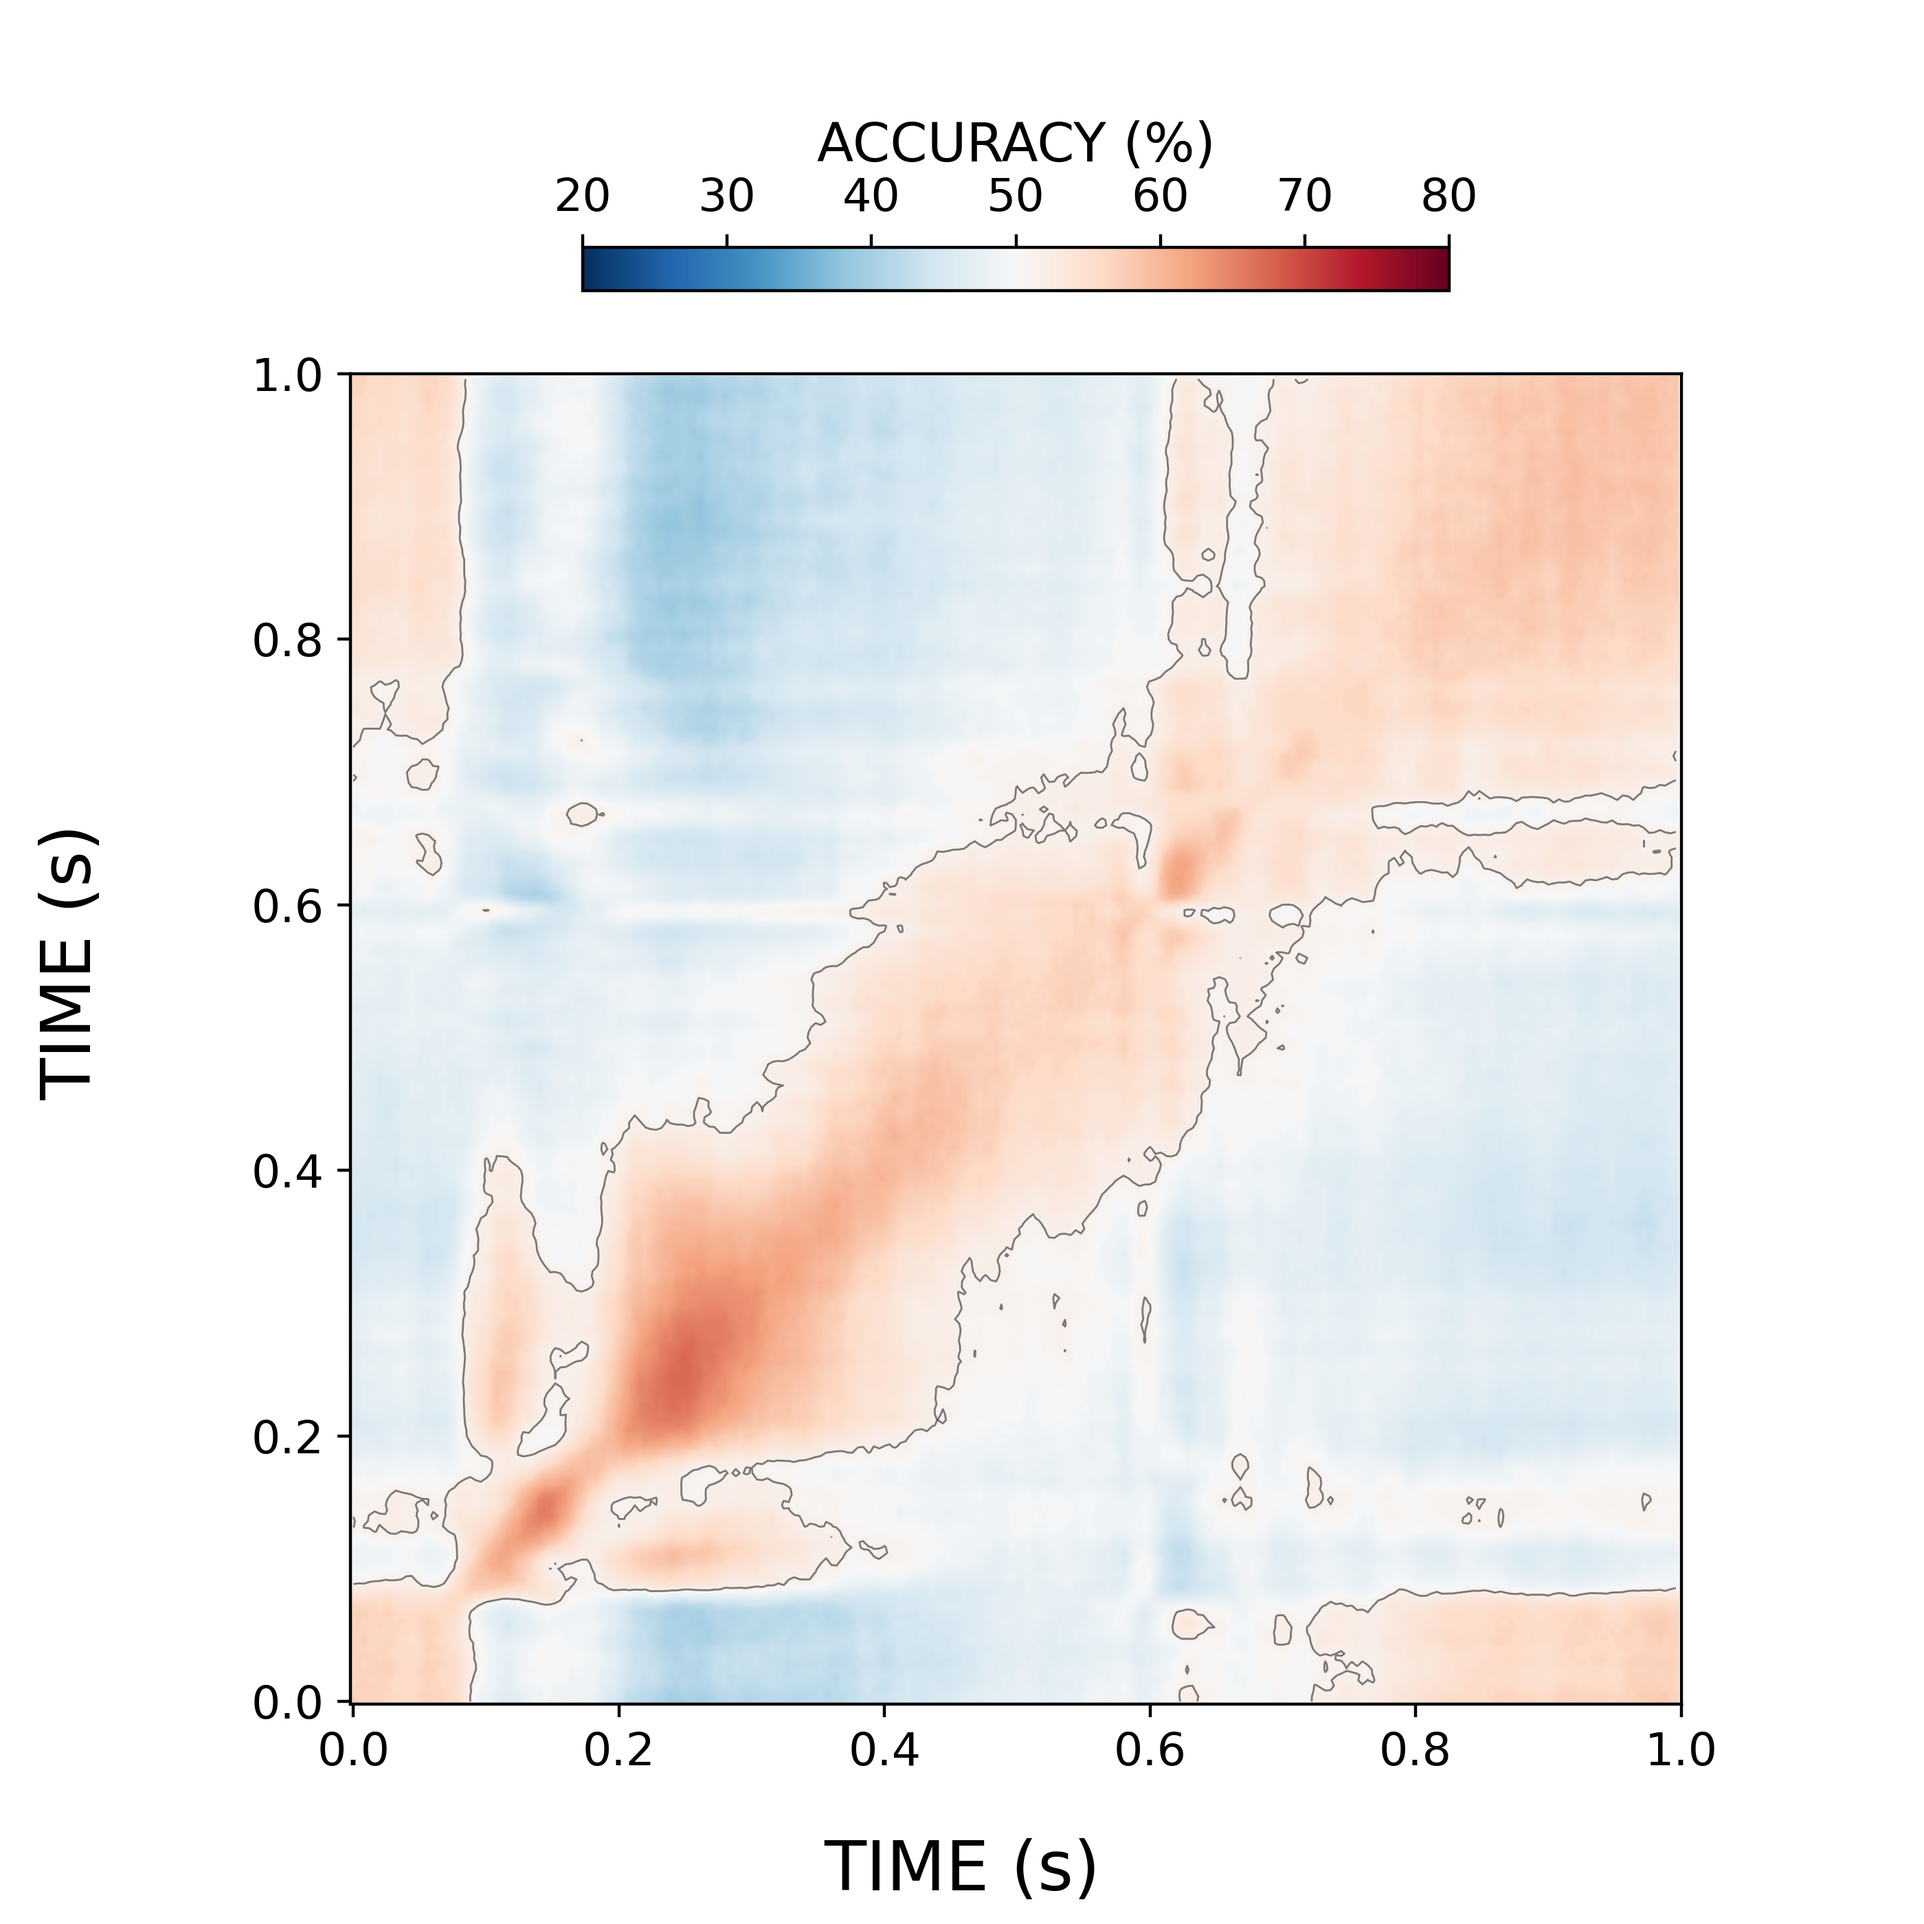
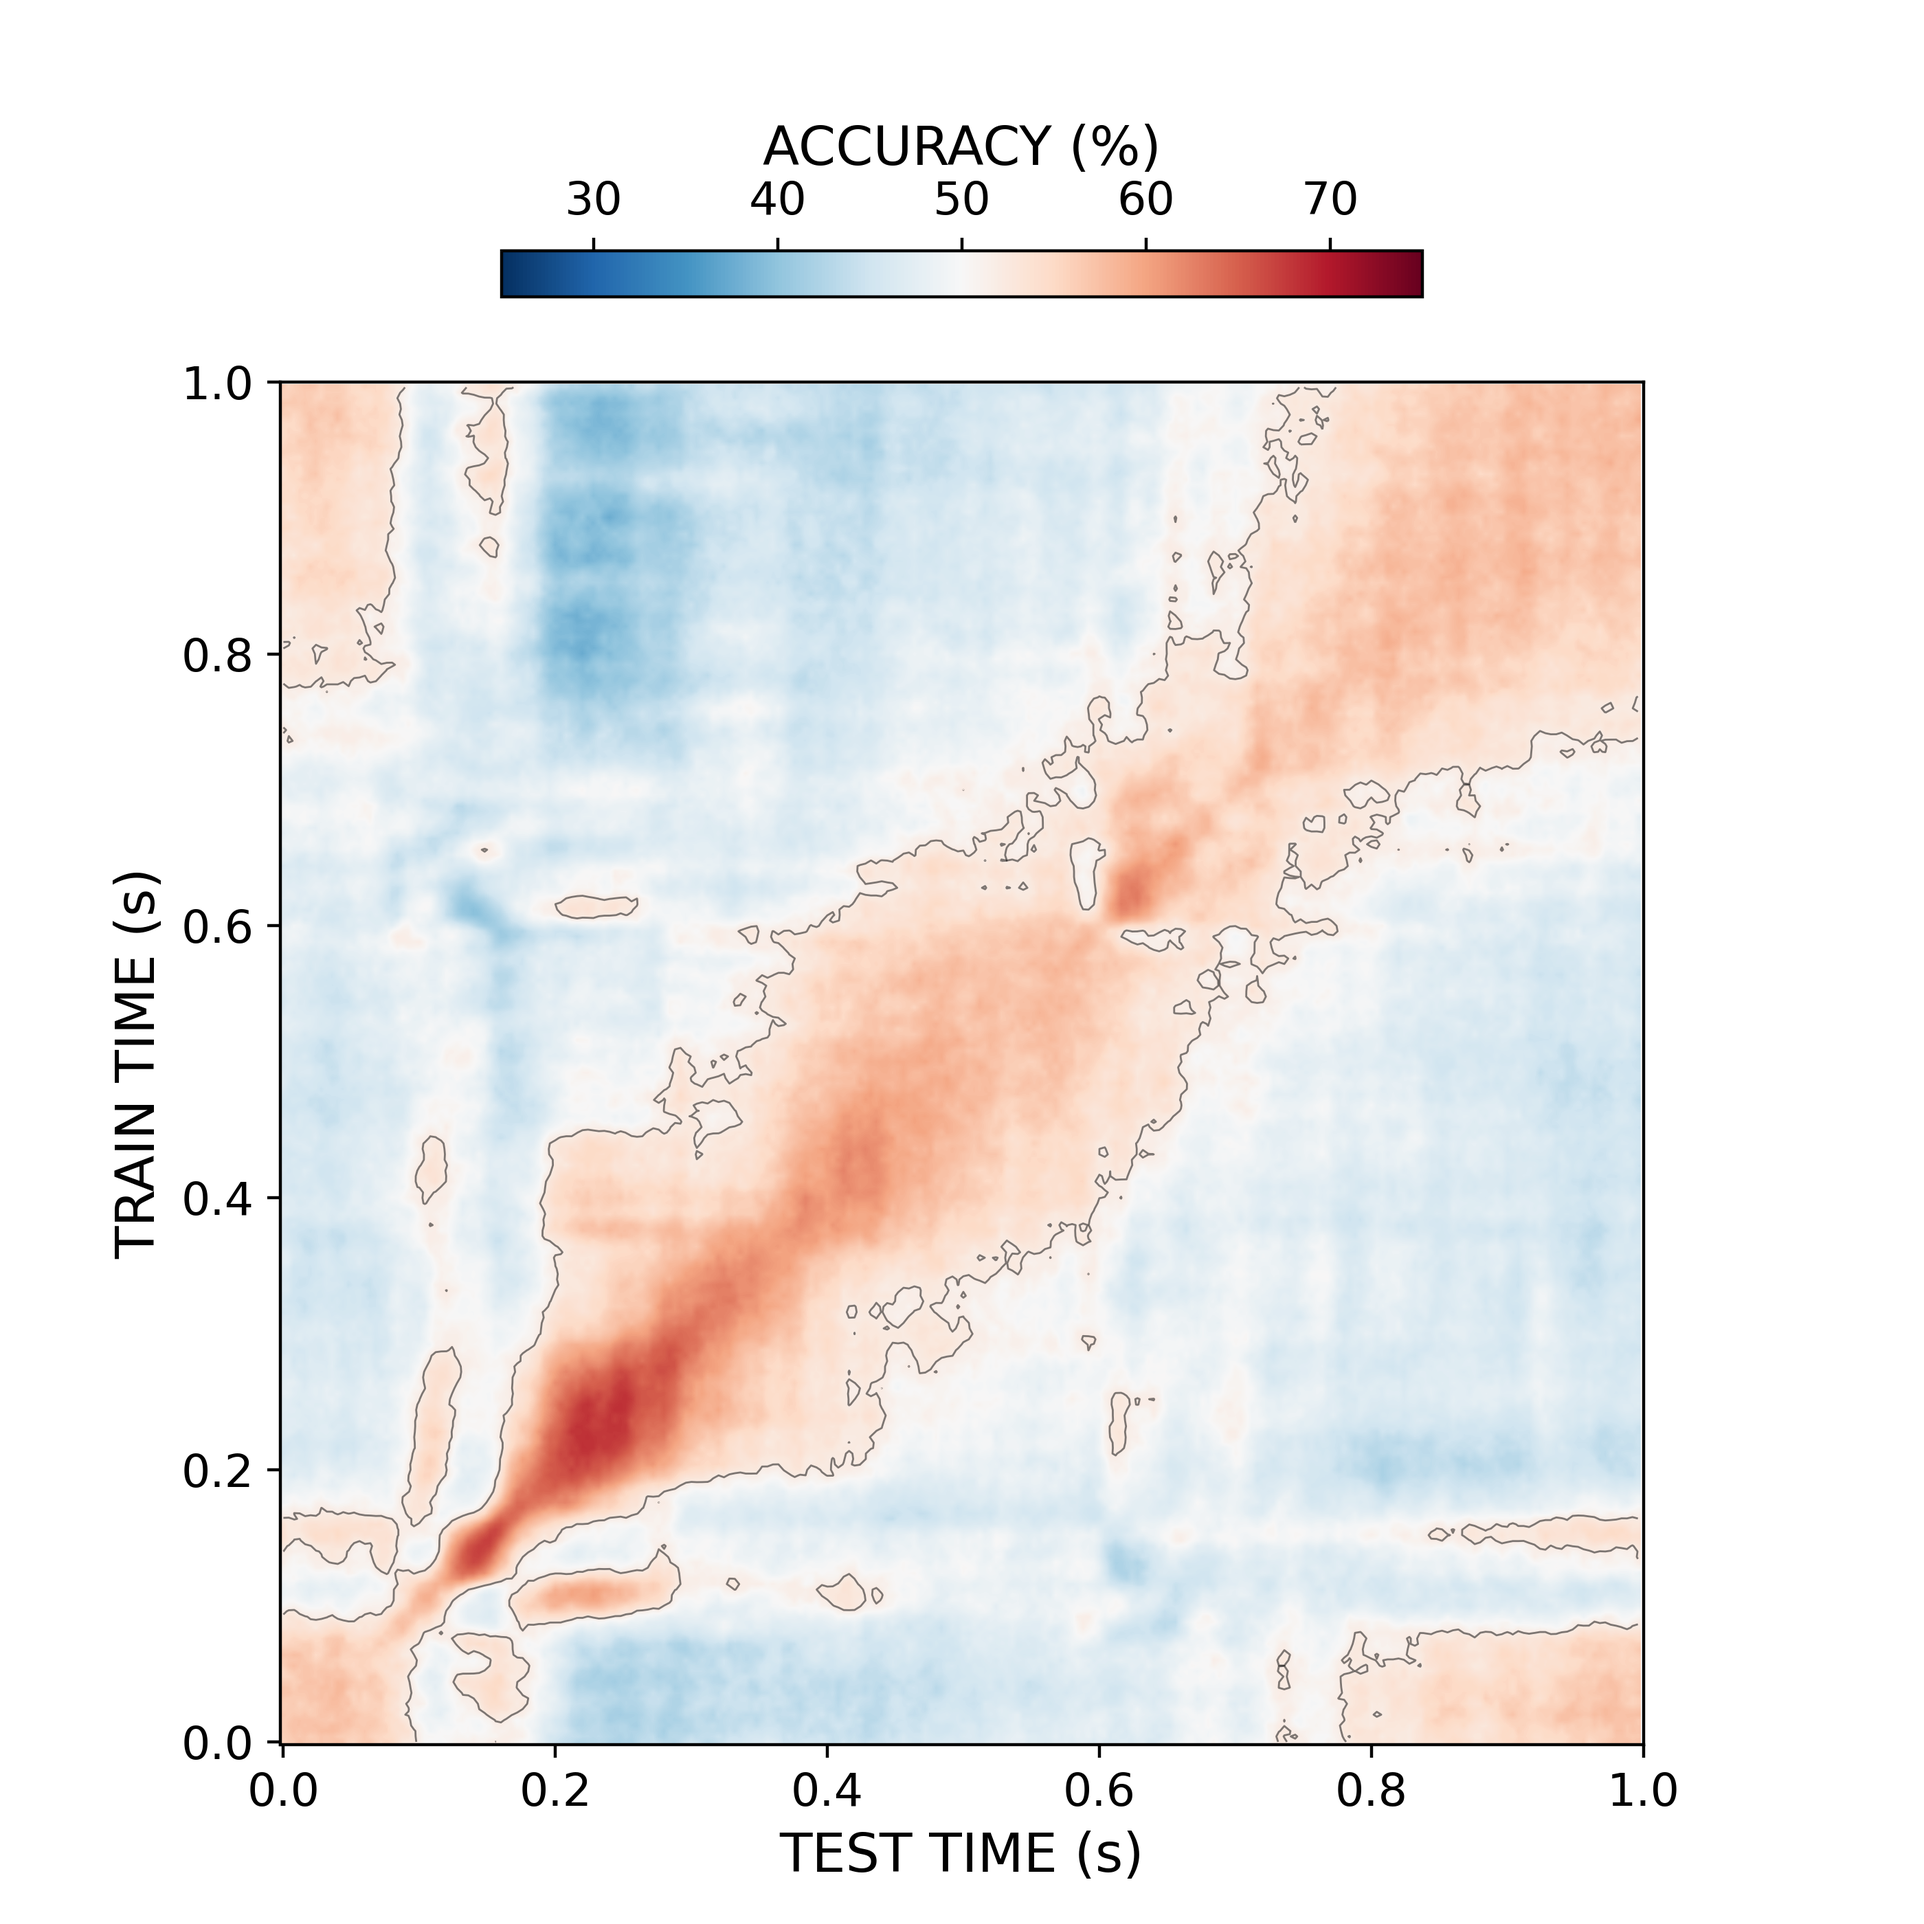
Update plot

diff --git a/decoding/condition/plot_results.py b/decoding/condition/plot_results.py
@@ -26,7 +26,7 @@ if __name__ == "__main__":
     acc = np.load(os.path.join('accuracies', 'accuracies_memory_or_visual.npy'), allow_pickle=True)
 
     # one fig with the average
-    plt = plot.plot_tgm_fig(acc, vmin=20, vmax=80, chance_level=chance_level(13190, alpha = 0.001, p = 0.5))
+    plt = plot.plot_tgm_fig(acc, vmin=25, vmax=75, chance_level=chance_level(6146, alpha = 0.001, p = 0.5))
     plt.tight_layout()
     plt.savefig(os.path.join('plots', f'tgm_decoding_condition.png'))
     
